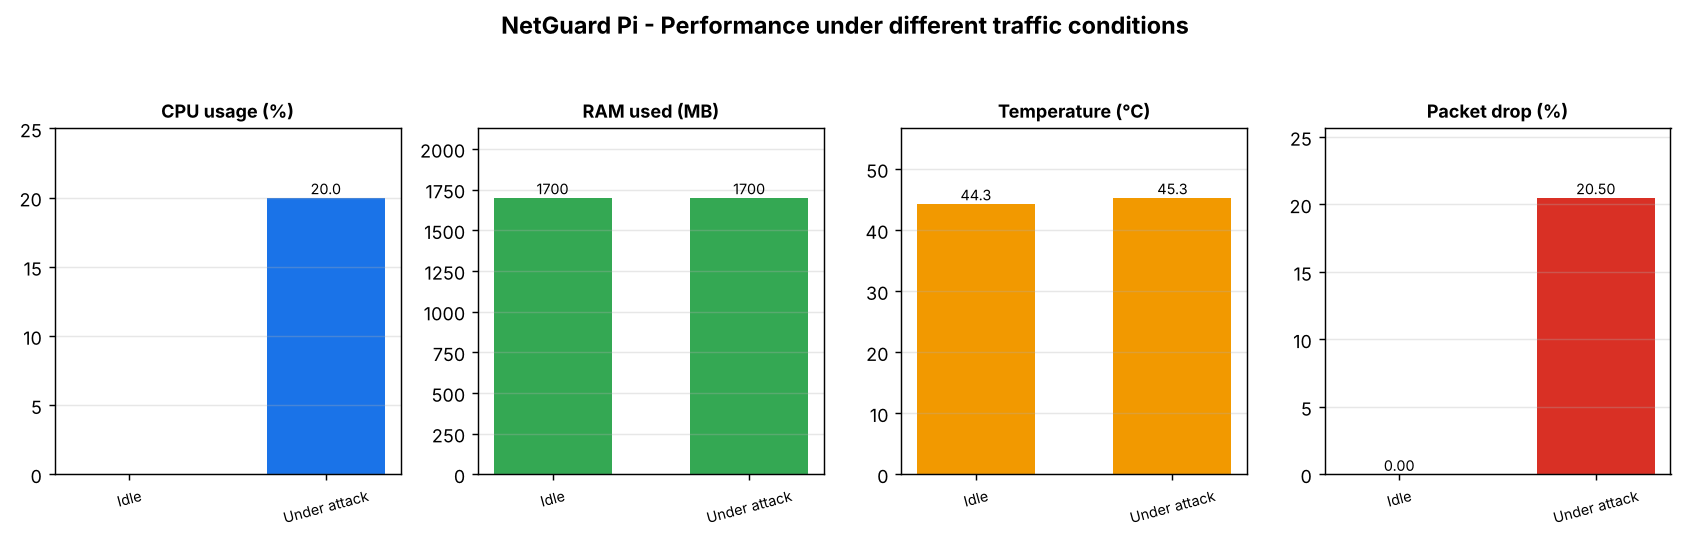
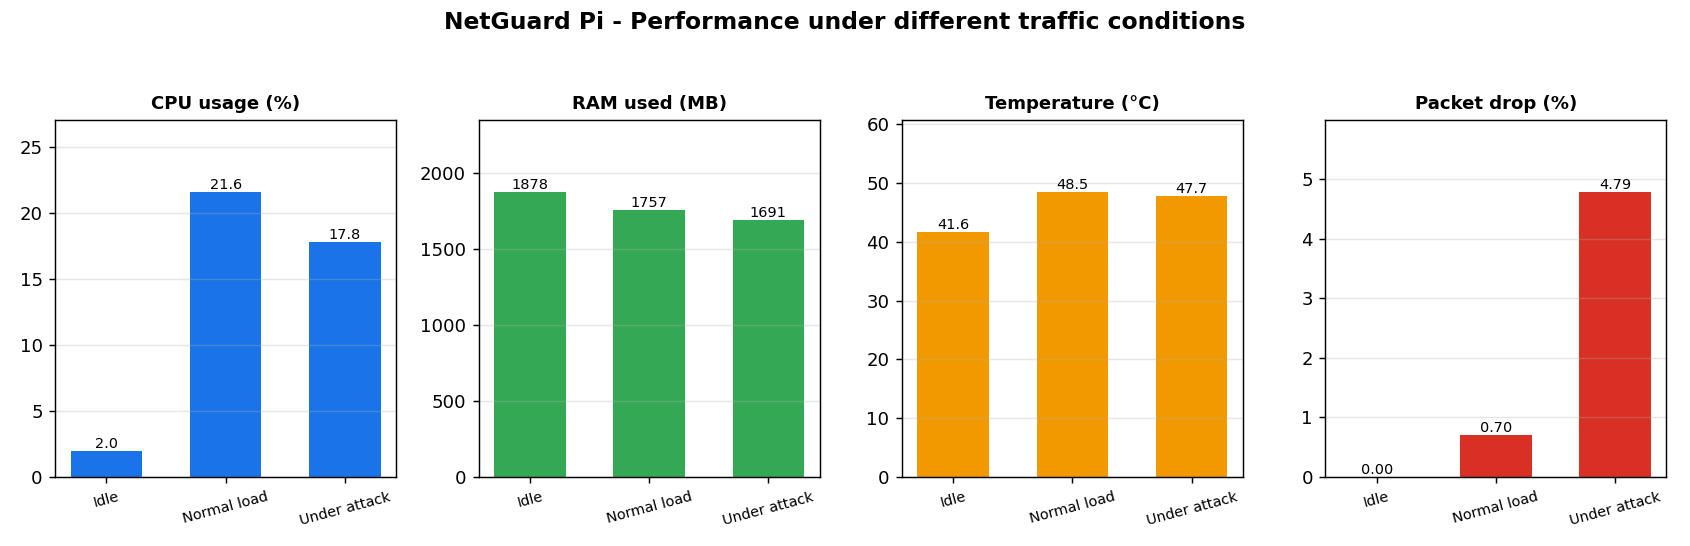
Add measured performance results (idle, normal load, under attack flood)

diff --git a/results/performance-table.md b/results/performance-table.md
@@ -1,4 +1,5 @@
 | Condition | CPU (%) | RAM (MB) | Temp (°C) | Packet drop (%) |
 |---|---|---|---|---|
-| Suricata idle (ET Open + custom) | - | 1700 | 44.3 | 0.00 |
-| Under attack flood (T4 ICMP + T7 SYN) | 20.0 | 1700 | 45.3 | 20.50 |
+| Suricata idle | 2.0 | 1878 | 41.6 | 0.00 |
+| Normal load (iperf3) | 21.6 | 1757 | 48.5 | 0.70 |
+| Under attack flood | 17.8 | 1691 | 47.7 | 4.79 |
